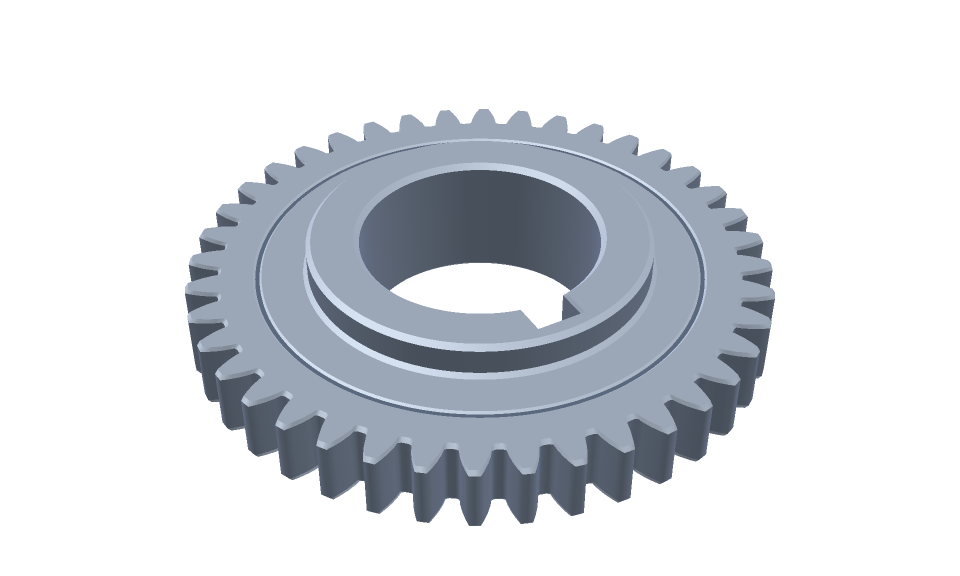
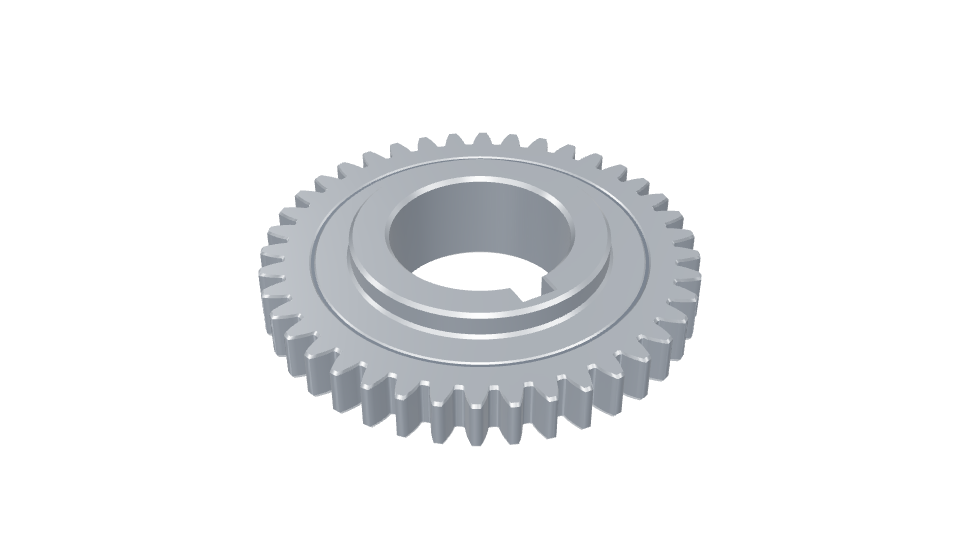
bug: fixes preview image rendering ordeer

Changed region(s): [[0.1875, 0.1778, 0.8125, 0.9185]]

diff --git a/src/components/card/BoardModelNode.tsx b/src/components/card/BoardModelNode.tsx
@@ -89,7 +89,7 @@ function ModelCardPreview({
   const [hasOpened, setHasOpened] = useState(selected);
   const [hasRendered, setHasRendered] = useState(false);
   const [generatedPoster, setGeneratedPoster] = useState(() => loadModelPoster(src));
-  const [initialPoster] = useState(() => generatedPoster ?? suppliedPoster);
+  const [initialPoster] = useState(() => suppliedPoster ?? generatedPoster);
   if (selected && !hasOpened) setHasOpened(true);
 
   const onPosterReady = useCallback((image: string) => {
@@ -100,7 +100,7 @@ function ModelCardPreview({
   const onFirstFrame = useCallback(() => setHasRendered(true), []);
   const showModel = hasOpened || selected;
   const unavailable = (
-    <PreviewPoster src={generatedPoster ?? initialPoster} status="3D preview unavailable" />
+    <PreviewPoster src={initialPoster ?? generatedPoster} status="3D preview unavailable" />
   );
   const posterStatus = showModel ? "Loading model…" : initialPoster ? undefined : "Select to load model";
 
@@ -122,7 +122,7 @@ function ModelCardPreview({
                 src={src}
                 orbitEnabled={selected}
                 onFirstFrame={onFirstFrame}
-                onPosterReady={generatedPoster ? undefined : onPosterReady}
+                onPosterReady={suppliedPoster || generatedPoster ? undefined : onPosterReady}
               />
             </Canvas>
           </Suspense>

diff --git a/src/components/card/ModelPreviewScene.tsx b/src/components/card/ModelPreviewScene.tsx
@@ -74,7 +74,7 @@ function ModelPreview({
     return {
       model,
       offset: bounds.getCenter(new Vector3()).negate(),
-      scale: longestSide > 0 ? 2.6 / longestSide : 1,
+      scale: longestSide > 0 ? 2.1 / longestSide : 1,
     };
   }, [scene]);
 
